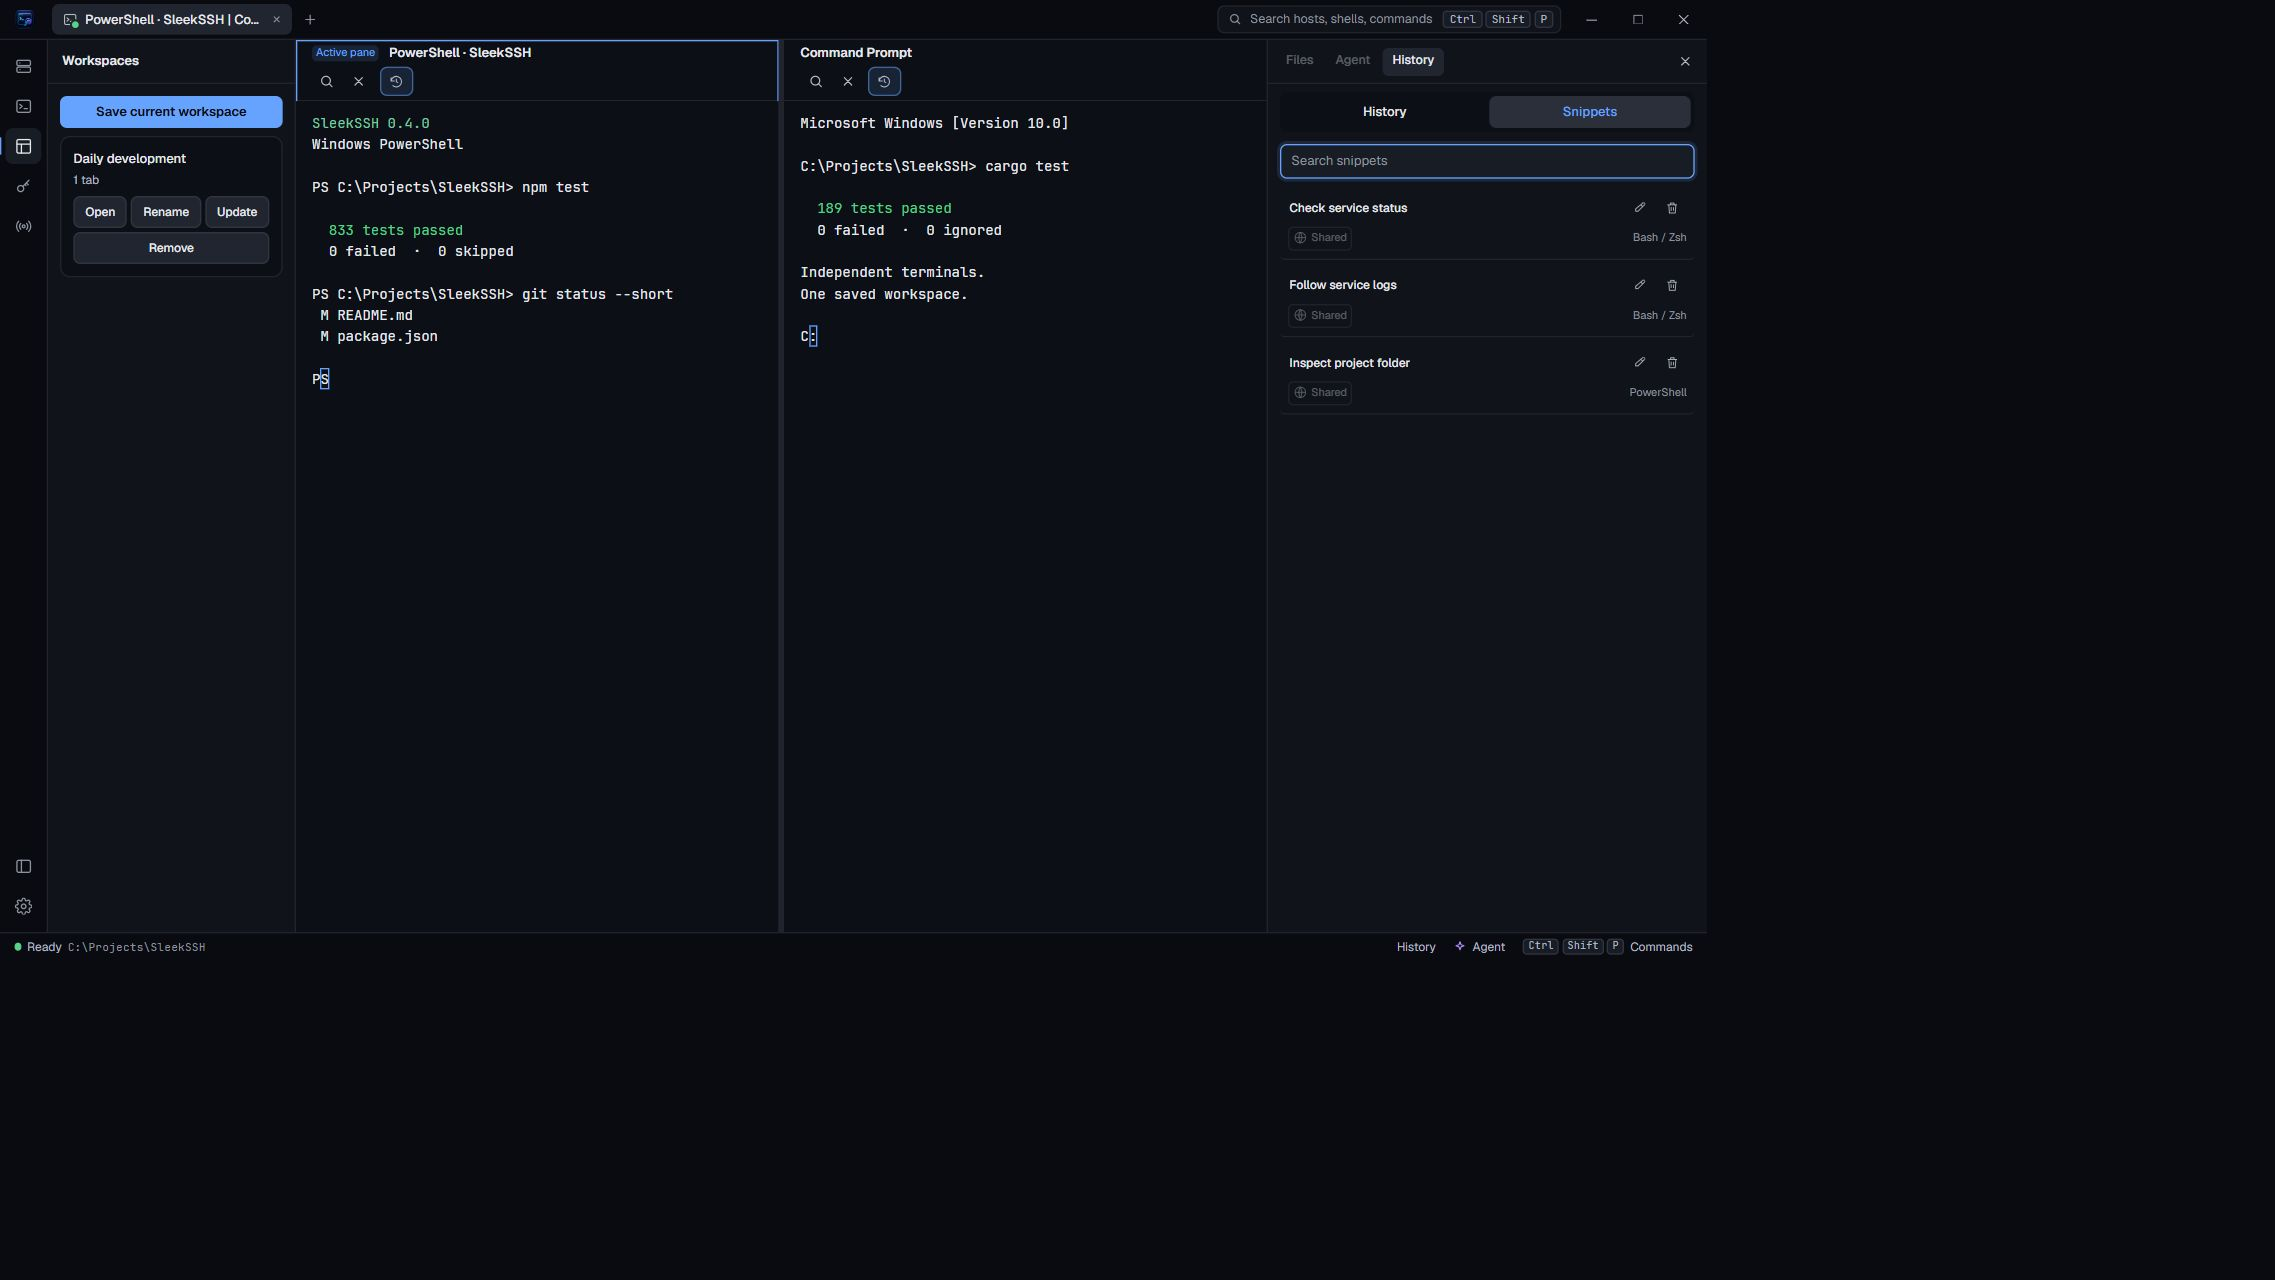
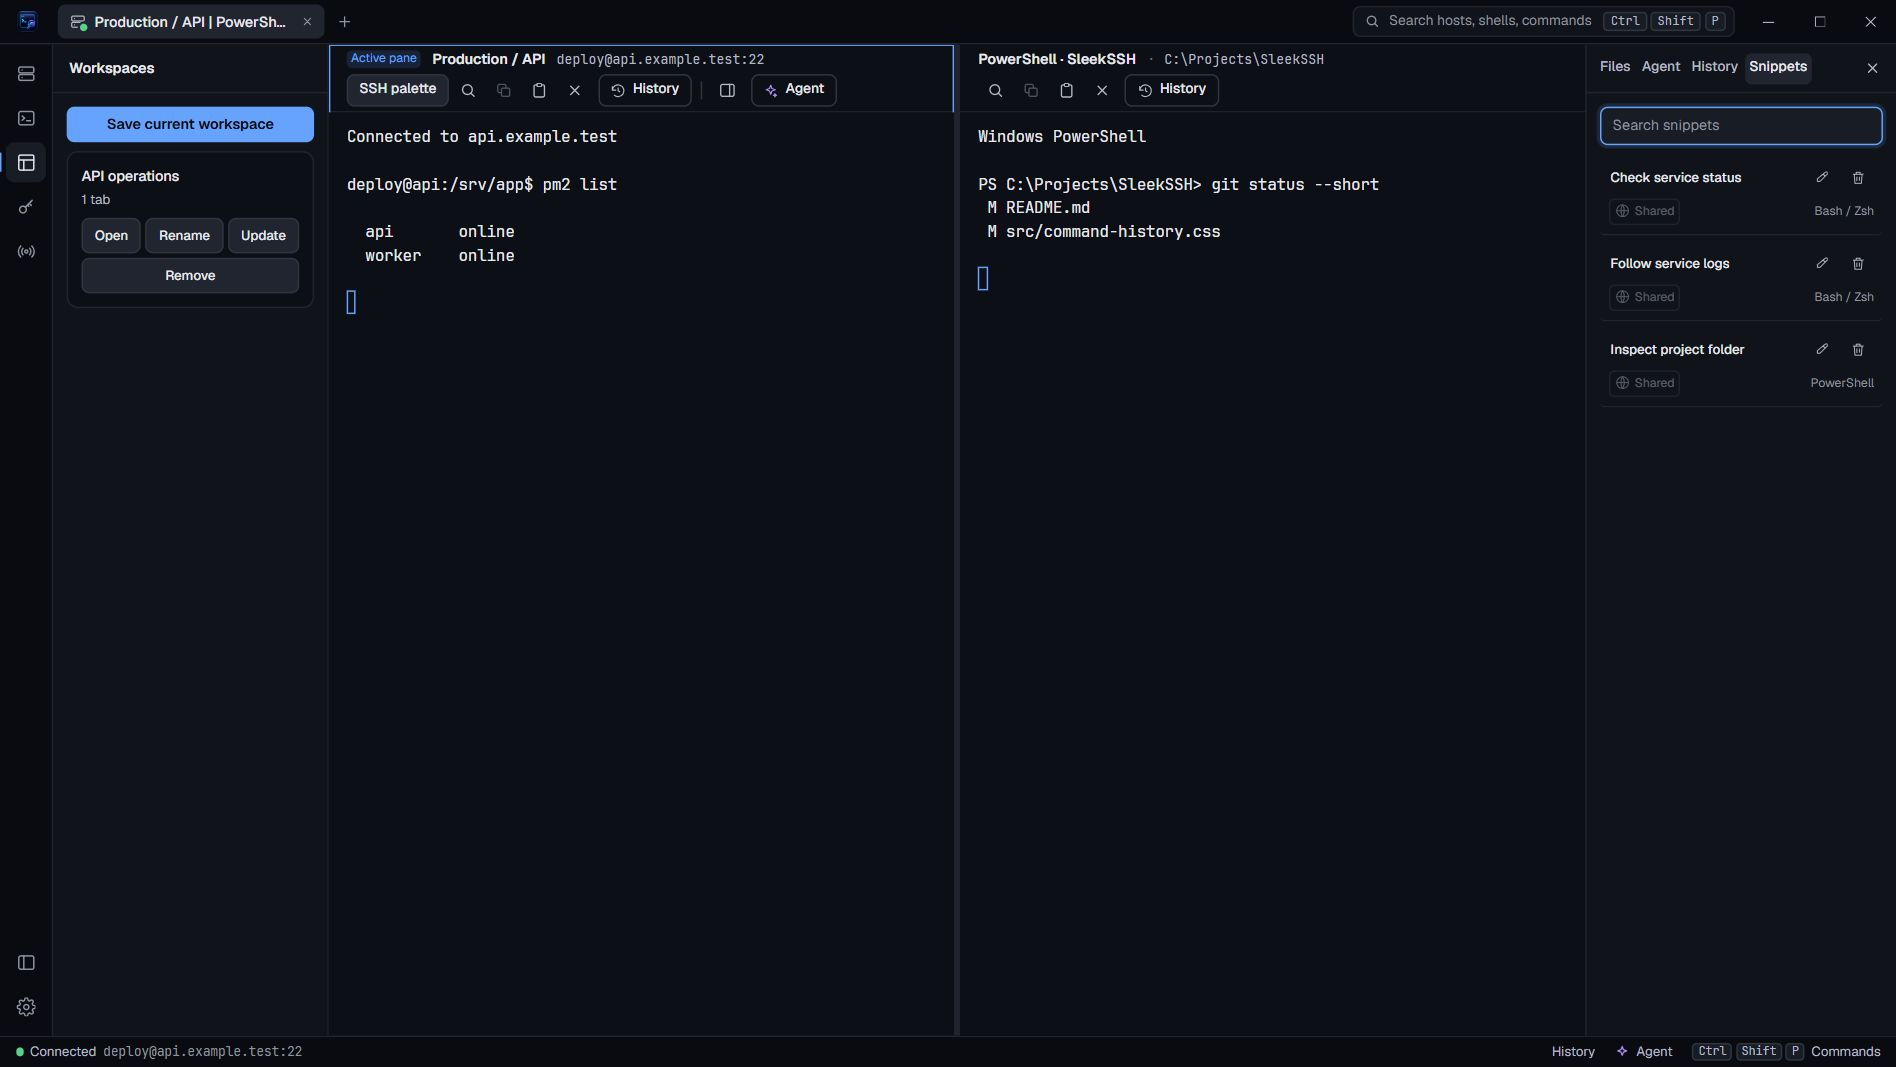
docs(screenshots): refresh v0.4.0 sidebar previews

diff --git a/README.md b/README.md
@@ -26,15 +26,17 @@ A two-minute narrated product demo with animated UI, saved PowerShell locations,
 
 ## Screenshots
 
-These earlier v0.4.0 previews use fictional terminal output and saved data; they do not connect to real servers or run commands. The current sidebar has top-level Files, Agent, History, and Snippets tabs with one shared width.
+These v0.4.0 screenshots render the current interface with fictional terminal output and saved data. Native operations are mocked; no servers are contacted or commands executed. Files, Agent, History, and Snippets use the same saved 280px panel width.
 
-![SleekSSH v0.4.0 with independent PowerShell and Command Prompt panes, a saved workspace, and command history](docs/screenshots/workspace-v0.4.0.jpg)
+![SleekSSH v0.4.0 SSH and PowerShell split panes with a saved workspace, compact history, and four sidebar tabs](docs/screenshots/workspace-v0.4.0.jpg)
 
 Files, Agent, History, and Snippets share one saved, resizable panel width. Workspaces restore the selected panel, and History follows the focused pane.
 
 ![SleekSSH v0.4.0 named snippets with reusable Bash, Zsh, and PowerShell command templates](docs/screenshots/snippets-v0.4.0.jpg)
 
 The **Snippets** tab sits alongside Files, Agent, and History and keeps named command templates ready for parameter entry and review.
+
+Compare the [Files panel](docs/screenshots/files-v0.4.0.jpg) and [Agent panel](docs/screenshots/agent-v0.4.0.jpg) at the same saved width.
 
 The Agent and global command palette screenshots below show v0.3.0 with fictional hosts, files, and agent responses.
 
